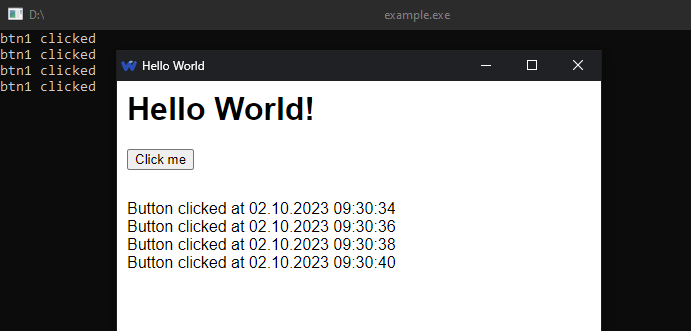
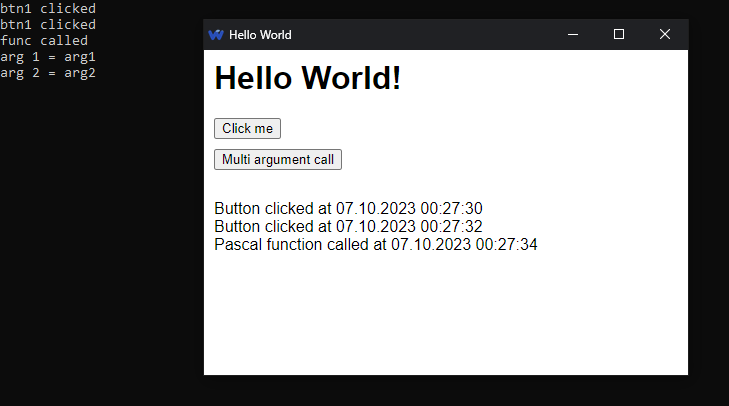
Updating examples

diff --git a/examples/Lazarus/simple 1/index.html b/examples/Lazarus/simple 1/index.html
@@ -24,6 +24,10 @@ body {
 	<button id="btn1">Click me</button>
 </div>
 
+<div style="margin-top: 10px;">
+	<button onclick="webui.call('func', 'arg1', 'arg2')">Multi argument call</button>
+</div>
+
 <div id="log" style="margin-top: 30px;">
 </div>
 
